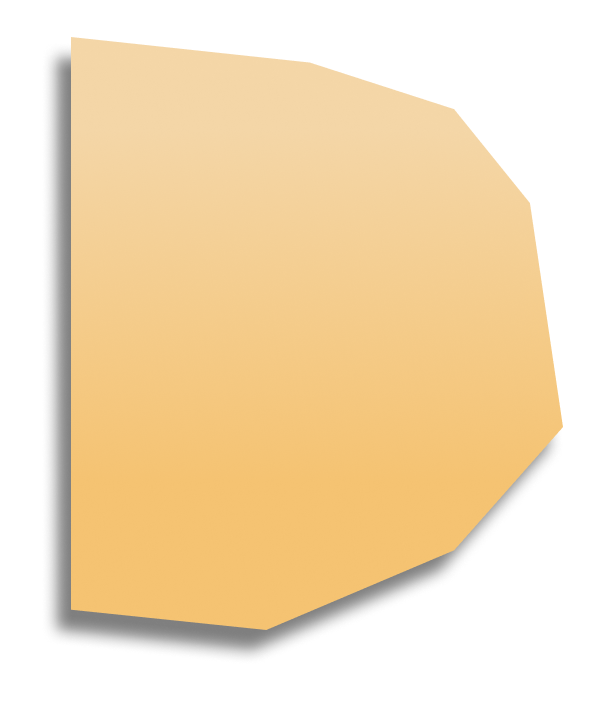
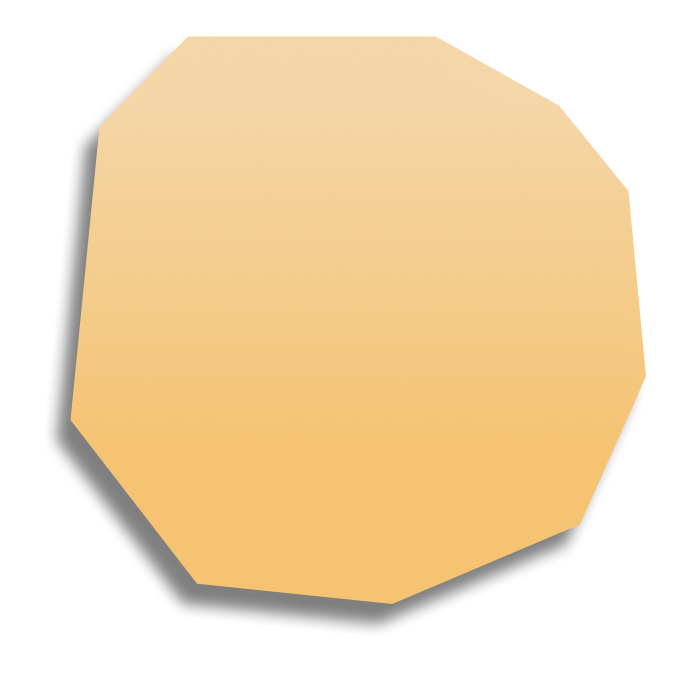
1280px gotov

Changed region(s): [[0.0594, 0.0308, 0.9505, 0.9251]]

diff --git a/cv-port/style.css b/cv-port/style.css
@@ -900,8 +900,8 @@ main aside {
     position: absolute;
     width: 3px;
     background: #f7f7f7;
-    height: 183px;
-    bottom: 174px;
+    height: 251px;
+    bottom: 106px;
     left: -114px;
     z-index: 1;
 }
@@ -961,9 +961,9 @@ main aside {
 #poly-4-s {
     position: absolute;
     z-index: 2;
-    width: 363px;
-    top: 305px;
-    right: 40px;
+    width: 375px;
+    top: 279px;
+    right: 36px;
 
 }
 
@@ -974,7 +974,7 @@ main aside {
 #line-25 {
     position: absolute;
     width: 3rem;
-    border: 3px solid black;
+    border: 3px solid #f7f7f7;
     background: transparent;
     height: 3rem;
     bottom: 76px;
@@ -992,7 +992,7 @@ main aside {
     width: 11rem;
     bottom: 76px;
     left: 167px;
-    border-bottom: 3px solid #000000;
+    border-bottom: 3px solid #f7f7f7;
     z-index: 1;
 }
 
@@ -1075,12 +1075,12 @@ main aside {
 
 #line-32 {
     position: absolute;
-    width: 26.5rem;
+    width: 368px;
     transform: rotate(90deg);
     height: 3px;
     background: #00000000;
-    bottom: -78px;
-    left: -69px;
+    bottom: -130px;
+    left: -41px;
     border-bottom: 3px solid #000000;
     z-index: 1;
     border-top-color: transparent;
@@ -1090,12 +1090,12 @@ main aside {
 
 #line-33 {
     position: absolute;
-    width: 290px;
+    width: 270px;
     transform: rotate(90deg);
     height: 3px;
     background: #00000000;
-    bottom: -434px;
-    left: -2px;
+    bottom: -446px;
+    left: 8px;
     border-bottom: 3px solid #ffffff;
     z-index: 1;
     border-top-color: transparent;
@@ -1152,10 +1152,10 @@ main aside {
 
 #poly-5-s {
     position: absolute;
-    width: 360px;
-    height: 360px;
-    top: 119px;
-    right: -9px;
+    width: 351px;
+    height: 351px;
+    top: 101px;
+    right: -4px;
     z-index: 2;
 }
 
@@ -1275,8 +1275,8 @@ footer {
 #poly-4 {
     width: 28rem;
     position: relative;
-    top: 355px;
-    left: -8px;
+    top: 369px;
+    left: -74px;
 }
 
 #poly-5 {
@@ -1533,6 +1533,9 @@ footer article img {
     #my-projects-list {
         height: 100%;
         justify-content: space-evenly;
+        font-size: 18px;
+        text-align: center;
+        width: 92px;
     }
 
     #poly-3-cont {
@@ -1545,5 +1548,89 @@ footer article img {
 
     #line-9 {
         width: 919px;
+    }
+
+    #me-pic-lines {
+        left: -18px;
+    }
+
+    #prev-jobs {
+        right: -190px;
+    }
+
+    #lines-poly {
+        left: -272px;
+    }
+
+    #line-27 {
+        width: 950px;
+    }
+
+    #line-28 {
+        left: 1262px;
+    }
+
+    #line-29 {
+        left: 1262px;
+    }
+
+    #line-30 {
+        left: 1262px;
+    }
+
+    #line-31 {
+        top: 683px;
+        left: 925px;
+    }
+
+    #line-34 {
+        left: 1045px;
+        bottom: 350px;
+        width: 350px;
+    }
+
+    #line-35 {
+        right: -5px;
+    }
+
+    #line-36 {
+        right: -5px;
+    }
+
+    #line-37 {
+        right: -5px;
+    }
+
+    #line-38 {
+        width: 1172px;
+    }
+
+    #line-39 {
+        left: 45px;
+    }
+    
+    #line-40 {
+        left: 45px;
+    }
+
+    #line-41 {
+        left: 44px;
+    }
+
+    #poly-5 {
+        right: -135px;
+    }
+
+    footer article {
+        left: 35px;
+    }
+
+    #poly-5-s {
+    position: absolute;
+    width: 352px;
+    height: 352px;
+    top: 101px;
+    right: -101px;
+    z-index: 2;
     }
 }

diff --git a/cv-port/index.html b/cv-port/index.html
@@ -186,8 +186,8 @@
             <div id="line-26"></div>
             <div id="line-27"></div>
             <div>
-                <svg id="poly-4-s" xmlns="http://www.w3.org/2000/svg" width="492" height="593" viewBox="0 0 492 593" fill="none">
-                    <path id="poly-4-p" d="M-1.62896e-05 93.4554L1.4626e-05 -7.11546e-06L238.864 25.5538L383.084 72.152L458.95 166.1L492 390.072L383.084 513.332L195.298 593L-8.87026e-07 572.707L-8.90271e-07 445.751L-1.62896e-05 93.4554Z" fill="#F4D6A7" fill-opacity="0.01"/>
+                <svg id="poly-4-s" xmlns="http://www.w3.org/2000/svg" width="576" height="568" viewBox="0 0 576 568" fill="none">
+                    <path id="poly-4-p" d="M0.499992 384L29.4998 90.5L117.999 0.553828L365.862 0.553817L489 69.5L558.5 155L576 340.5L510.082 488.332L322.296 568L126.998 547.707L0.499992 384Z" fill="#F4D6A7" fill-opacity="0.01"/>
                 </svg>
                 <img src="pics/poly-4.png" alt="" id="poly-4">
             </div>
@@ -204,13 +204,13 @@
         <div id="line-35"></div>
         <div id="line-36"></div>
         <div id="line-37"></div>
-        <svg id="poly-5-s" xmlns="http://www.w3.org/2000/svg" width="634" height="661" viewBox="0 0 634 661" fill="none">
-            <path id="poly-5-p" d="M634 27.3561L424.786 27.3561L262.63 1.62331e-05L112.556 88.5L36.5 197L-0.000254986 412.886L112.556 599.29L349.467 661L634 661L634 27.3561Z" fill="#F4D6A7" fill-opacity="0.01"/>
+        <svg id="poly-5-s" xmlns="http://www.w3.org/2000/svg" width="727" height="661" viewBox="0 0 727 661" fill="none">
+            <path id="poly-5-p" d="M633.999 27.3561L424.786 27.3562L262.63 2.02764e-05L112.556 88.5L36.5 197L-0.000254986 412.886L112.556 599.29L349.466 661L633.999 640.5L712 539L726.5 286L712 145.5L633.999 27.3561Z" fill="#F5C372" fill-opacity="0.01"/>
         </svg>
         <img src="pics/poly-5.png" alt="" id="poly-5">
         <article>
-            <p><span>Th</span>ese are the projects that i'm <span>most</span> proud of, and i hope my next <span>o</span>ne will be of your design!</p>
-            <p id="assume"><span>Assumi</span>ng you liked my work, we can co<span>nnect</span> via:</p>
+            <p>These are the projects that i'm most proud of, and i hope my next one will be of your design!</p>
+            <p id="assume"><span>Assu</span>ming you liked my work, we can co<span>nnect</span> via:</p>
             <p>minic1300@gmail.com</p>
             <div>
                 <img src="pics/insta.png" alt="">
